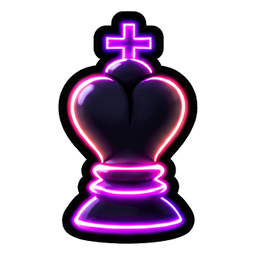
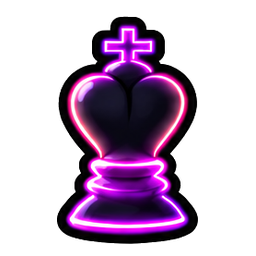
Use Denis's drawn neon pawns
Claude-Session: https://claude.ai/code/session_01GmDMeN6sAru8L1rwi4TgLp

Changed region(s): [[0.2188, 0.0312, 0.7812, 0.9688]]

diff --git a/README.md b/README.md
@@ -45,7 +45,7 @@
   матующий ход, в задачах на 2 хода компьютер отвечает самой упорной защитой.
 - Нарисованные раскраски фигур лежат в `unity/Assets/Resources/Skins/<id раскраски>/` (wK.png … bP.png,
   256×256) и заменяют перекраску. Лист из 12 фигур режется на картинки скриптом
-  `tools/cut_skin.py`. Нарисованные раскраски: «Космос» (cosmos), «Призраки» (ghost), «Обезьянки» (monkeys), «Лава» (lava), «Неон» (neon, пешки дорисованы из «Мяты»), «Слоновая кость» (ivory), «Мята» (mint), «Песок» (sand).
+  `tools/cut_skin.py`. Нарисованные раскраски: «Космос» (cosmos), «Призраки» (ghost), «Обезьянки» (monkeys), «Лава» (lava), «Неон» (neon), «Слоновая кость» (ivory), «Мята» (mint), «Песок» (sand).
 - Задания и сундуки (`Rewards`, `SkinCatalog`, `PlayerProgress`): 3 задания на день (меняются
   каждый день), 10 достижений, сундуки трёх видов. Раскраски бывают обычные, редкие, эпические и
   легендарные; 30-й сундук подряд без легендарной гарантированно даёт легендарную. Повтор
